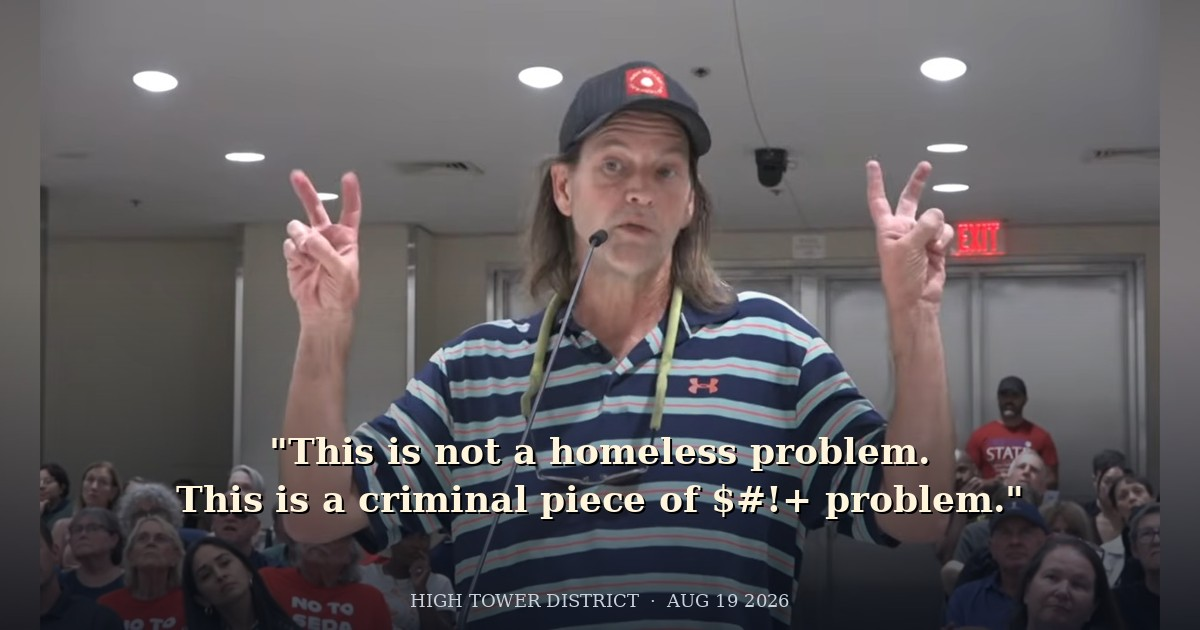
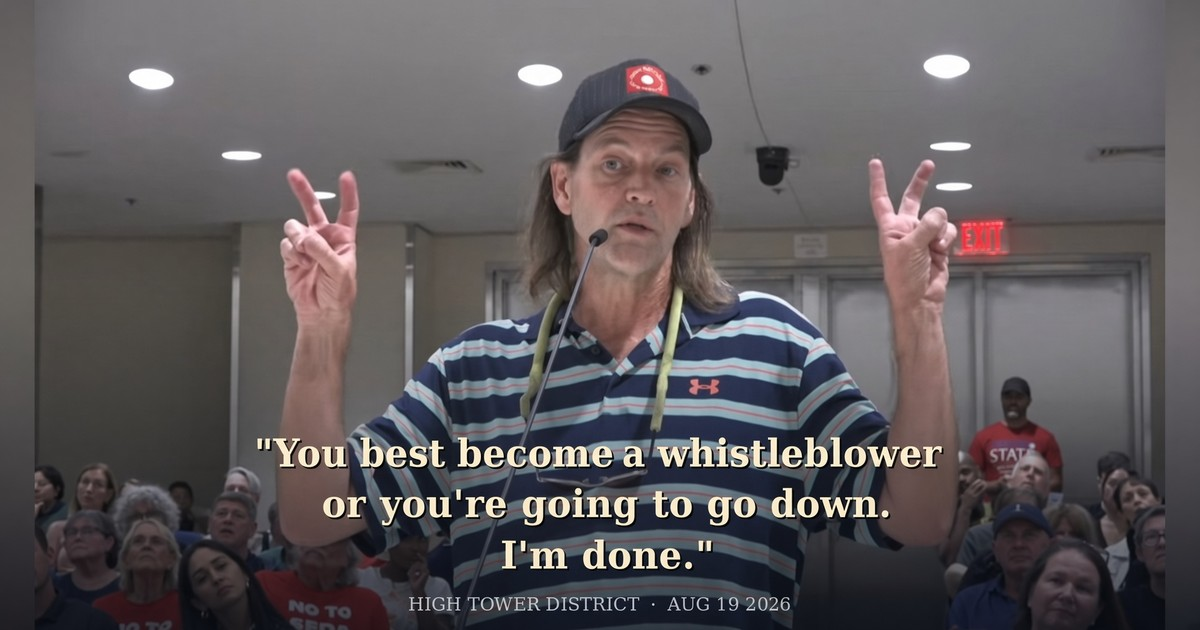
iSH

diff --git a/whistle-or-down/index.html b/whistle-or-down/index.html
@@ -4,21 +4,21 @@
   <meta charset="UTF-8">
   <meta name="viewport" content="width=device-width, initial-scale=1.0">
   <title>Whistleblow or Go Down — High Tower District</title>
-  <meta name="description" content="Anyone in politics: become a whistleblower or risk a federal penitentiary. Spare public safety. Official tape 1:49:12.">
+  <meta name="description" content="You best become a whistleblower or you're going to go down. I'm done. Official tape 1:49:12.">
   <link rel="canonical" href="https://aahigh.github.io/stories/whistle-or-down/">
   <meta property="og:type" content="article">
   <meta property="og:site_name" content="High Tower District Stories">
   <meta property="og:title" content="Whistleblow or Go Down">
-  <meta property="og:description" content="If you are in politics, blow the whistle. Or go down with the people who thought the lobby was safer than the record.">
+  <meta property="og:description" content="You best become a whistleblower or you're going to go down. I'm done.">
   <meta property="og:url" content="https://aahigh.github.io/stories/whistle-or-down/">
   <meta property="og:image" content="https://aahigh.github.io/stories/whistle-or-down/images/og.jpg">
   <meta property="og:image:secure_url" content="https://aahigh.github.io/stories/whistle-or-down/images/og.jpg">
   <meta property="og:image:width" content="1200">
   <meta property="og:image:height" content="630">
-  <meta property="og:image:alt" content="Aaron Hightower at the Planning Commission microphone. This is not a homeless problem.">
+  <meta property="og:image:alt" content="Aaron Hightower at the Planning Commission microphone with the quote: You best become a whistleblower or you're going to go down. I'm done.">
   <meta name="twitter:card" content="summary_large_image">
   <meta name="twitter:title" content="Whistleblow or Go Down">
-  <meta name="twitter:description" content="Anyone in politics: blow the whistle or risk the penitentiary. Spare public safety.">
+  <meta name="twitter:description" content="You best become a whistleblower or you're going to go down. I'm done.">
   <meta name="twitter:image" content="https://aahigh.github.io/stories/whistle-or-down/images/og.jpg">
   <script src="https://cdn.tailwindcss.com"></script>
   <link rel="preconnect" href="https://fonts.googleapis.com">
@@ -27,7 +27,7 @@
   <style>
     body { font-family: 'Inter', sans-serif; }
     h1, h2, h3 { font-family: 'Playfair Display', serif; }
-    .tape iframe { aspect-ratio: 16/9; width: 100%; min-height: 220px; }
+    .tape iframe { aspect-ratio: 16/9; min-height: 220px; }
   </style>
 </head>
 <body class="bg-slate-50 text-slate-800 antialiased">
@@ -44,10 +44,10 @@
       <div class="inline-block bg-red-700 text-white text-xs font-semibold px-3 py-1 rounded-full mb-4 tracking-wide">
         CIVIC NOTICE · AUG 19 2026
       </div>
-      <p class="text-xs uppercase tracking-widest text-slate-400 mb-3">To anyone in politics</p>
-      <h1 class="text-3xl sm:text-5xl font-bold leading-tight mb-4">Whistleblow or Go Down</h1>
+      <p class="text-xs uppercase tracking-widest text-slate-400 mb-3">District 3 · Dais · Whistle or down</p>
+      <h1 class="text-3xl sm:text-4xl font-bold leading-tight mb-4">Whistleblow or Go Down</h1>
       <p class="text-slate-300 text-xl leading-relaxed max-w-2xl">
-        Blow the whistle. Or take the ride to a federal penitentiary. Public safety does not survive a silent dais.
+        You best become a whistleblower or you're going to go down. I'm done.
       </p>
     </div>
   </header>
@@ -55,85 +55,143 @@
   <main class="max-w-3xl mx-auto px-4 py-10 space-y-12">
 
     <figure>
-      <img src="images/aaron-dais.jpg" alt="Aaron Hightower at the Planning Commission microphone" class="w-full rounded-lg shadow-md">
-      <figcaption class="mt-2 text-sm text-slate-500 text-center">Planning Commission, August 19, 2026. Two minutes. The warning is the story.</figcaption>
+      <img src="images/aaron-dais.jpg" alt="Aaron Hightower speaking at the Planning Commission with both hands raised" class="w-full rounded-lg shadow-md">
+      <figcaption class="mt-2 text-sm text-slate-500 text-center">Planning Commission public comment, August 19, 2026. The closing line lives on the preview card.</figcaption>
     </figure>
 
     <section class="space-y-4 text-[17px] leading-relaxed">
-      <p>This is not a homeless problem. That word is a loaded label. It rinses the crime off the pile.</p>
-      <p>This is a criminal piece of $#!+ problem. Unused law. Federal money treated like a community mascot. People in office who will not say the statute out loud.</p>
-      <p>If you hold a seat, staff a seat, bid a contract, or sit in a lobby and call yourself a journalist, you already know enough to pick a side. Become a whistleblower. Or go down with the people who thought silence was a career plan.</p>
+      <p>The loaded label is <span class="font-semibold">homeless</span>.</p>
+      <p>It rinses the verb off the noun. Dumping in a canal becomes a housing status. A break-in becomes a condition. Grift on child-serving money becomes compassion. The statute stays on the books. The microphone pretends the statute is rude.</p>
+      <p>I did not take that microphone on August 19 to audition for a seat. I took it because unused law is a signal, and because I will not put my name on a ticket next to people I treat as predators of general public safety.</p>
+      <p>The outside is the point. Expose them from the sidewalk and the official tape. Do not warranty them with a ballot line.</p>
     </section>
 
     <section>
-      <h2 class="text-2xl font-bold text-slate-900 mb-4 border-b border-red-800 pb-2">The tape</h2>
+      <h2 class="text-2xl font-bold text-slate-900 mb-4 border-b border-red-800 pb-2">Tape 4</h2>
       <figure class="bg-white border border-slate-200 rounded-2xl p-5">
-        <p class="text-xs uppercase tracking-wide text-blue-800">Official stream · one clip</p>
-        <p class="text-sm font-semibold text-slate-900 mt-1">Aaron Hightower · Fresno Planning Commission · August 19, 2026</p>
+        <p class="text-xs uppercase tracking-wide text-blue-800">Tape 4 · Closing line</p>
+        <p class="text-sm font-semibold text-slate-900 mt-1">Aaron Hightower · Planning Commission · August 19, 2026</p>
         <p class="text-sm text-slate-800 mt-2"><span class="font-semibold">Start:</span> 1:49:12 · <span class="font-semibold">Listen:</span> about 2 minutes</p>
-        <p class="text-sm text-slate-600 mt-2">Homelessness as crime and grift. Unused canal-litter law. Broken windows. Whistleblow or go down.</p>
+        <p class="text-sm text-slate-600 mt-2">Listen for the close: you best become a whistleblower or you're going to go down. I'm done.</p>
         <div class="tape w-full overflow-hidden rounded-xl border border-slate-200 bg-black mt-4">
-          <iframe class="w-full" src="https://www.youtube.com/embed/MCOhw7L1KnI?start=6552" title="Planning Commission August 19 2026 at 1:49:12" allow="accelerometer; autoplay; clipboard-write; encrypted-media; gyroscope; picture-in-picture" allowfullscreen></iframe>
+          <iframe class="w-full" src="https://www.youtube.com/embed/MCOhw7L1KnI?start=6552" title="Planning Commission August 19 2026 Tape 4" allow="accelerometer; autoplay; clipboard-write; encrypted-media; gyroscope; picture-in-picture" allowfullscreen></iframe>
         </div>
-        <p class="text-xs text-slate-500 mt-2">
-          If the player skips, open
-          <a class="text-blue-800 underline" href="https://www.youtube.com/watch?v=MCOhw7L1KnI&amp;t=6552s">youtube.com/watch?v=MCOhw7L1KnI&amp;t=6552s</a>
-        </p>
+        <figcaption class="text-xs text-slate-500 mt-2">Official City of Fresno stream. youtube.com/watch?v=MCOhw7L1KnI&amp;t=6552s</figcaption>
       </figure>
     </section>
 
     <figure>
-      <img src="images/13-city-hall-sign.jpg" alt="Fresno City Hall sign" class="w-full rounded-lg shadow-md">
-      <figcaption class="mt-2 text-sm text-slate-500 text-center">The building. The choice is inside it.</figcaption>
+      <img src="images/city-hall.jpg" alt="Fresno City Hall granite sign" class="w-full rounded-lg shadow-md">
+      <figcaption class="mt-2 text-sm text-slate-500 text-center">The building. The record is on the tape, not the slogan on the lawn.</figcaption>
     </figure>
 
     <section class="space-y-4 text-[17px] leading-relaxed">
-      <h2 class="text-2xl font-bold text-slate-900 border-b border-red-800 pb-2">Why the penitentiary is not a metaphor</h2>
-      <p>Minnesota already ran the experiment. Child-nutrition money. Fake sites. Federal prison. Aimee Bock, 500 months. People walked back from overseas to face the docket.</p>
-      <p>The same class of money moves here. Child-serving. Housing. Arts. Emergency. The invoices look local. The source is often federal. When the audit arrives, "I was just doing services" is not a defense. "I did not want to hurt my friends" is not a defense. "We used a softer noun" is not a defense.</p>
-      <p>California still has Penal Code 374.7. Dump in a canal and it is a misdemeanor with a mandatory fine. The laterals behind this district are not mysterious. Unused law is a signal. Predators read signals.</p>
-      <p>California still has Penal Code 311.11. A registrant still walked into a Fresno council race because the state left the door open. That is not compassion. That is a captured gate.</p>
+      <h2 class="text-2xl font-bold text-slate-900 border-b border-red-800 pb-2">What the unused law actually is</h2>
+      <p>California Penal Code 374.7 is not a vibe. Litter or dump waste into a canal, slough, river, or within 150 feet of the high-water mark and it is a misdemeanor. First conviction: mandatory fine. Repeat it and the fine climbs. A court can add litter pickup.</p>
+      <p>The laterals behind this district are not mysterious. What is mysterious is a government that can see the trash and still speak as if no written law exists.</p>
+      <p>Unused law is not mercy. Unused law is a signal. Predators read signals. So do the people who turn services into a billing machine.</p>
     </section>
 
     <figure>
-      <img src="images/03-graffiti-full.jpg" alt="PC 374.7 painted on the fence at 721 E La Sierra" class="w-full rounded-lg shadow-md">
-      <figcaption class="mt-2 text-sm text-slate-500 text-center">The statute on the fence. Miss De Meaner. $1,000 fine.</figcaption>
+      <img src="images/pc3747.jpg" alt="Pink lettering on the fence at 721 E La Sierra stating PC 374.7" class="w-full rounded-lg shadow-md">
+      <figcaption class="mt-2 text-sm text-slate-500 text-center">The permanent record at 721 E La Sierra. PC 374.7. Miss De Meaner. $1,000 fine.</figcaption>
     </figure>
 
     <figure>
-      <img src="images/04-canal-trash.jpg" alt="Trash in the canal" class="w-full rounded-lg shadow-md">
-      <figcaption class="mt-2 text-sm text-slate-500 text-center">Call it homeless if you need the soft noun. The pile is still a pile.</figcaption>
+      <img src="images/canal-trash.jpg" alt="Trash in the canal behind the property" class="w-full rounded-lg shadow-md">
+      <figcaption class="mt-2 text-sm text-slate-500 text-center">The canal. Call it homeless if you need the soft noun. The pile is still a pile.</figcaption>
+    </figure>
+
+    <div class="grid grid-cols-1 sm:grid-cols-2 gap-4">
+      <figure>
+        <img src="images/fence-pack.jpg" alt="Cigarette pack and foil on the fence" class="w-full rounded-lg shadow-md">
+        <figcaption class="mt-2 text-sm text-slate-500 text-center">Morning evidence.</figcaption>
+      </figure>
+      <figure>
+        <img src="images/bridge.jpg" alt="Bridge over the canal" class="w-full rounded-lg shadow-md">
+        <figcaption class="mt-2 text-sm text-slate-500 text-center">The underpass is never empty.</figcaption>
+      </figure>
+    </div>
+
+    <section class="space-y-4 text-[17px] leading-relaxed">
+      <h2 class="text-2xl font-bold text-slate-900 border-b border-red-800 pb-2">Wiener killed the bill that would have closed the 311.11 door</h2>
+      <p>Rene Campos ran for District 7 after a 2018 conviction tied to possessing child sexual abuse material. That is Penal Code 311.11 territory. The County Clerk said state law still let him run. In March 2026 the Fresno City Council voted 7-0 to support a state bill barring registered sex offenders from holding office after one of them sat in chambers while schoolchildren walked the room.</p>
+      <p>Assemblymember Esmeralda Soria carried that bill. AB 2753. It would have barred anyone ever required to register as a sex offender from running for or holding state or local office. The Assembly passed it. Then it hit the Senate Elections and Constitutional Amendments Committee on June 30, 2026.</p>
+      <p>The chair of that committee is Sen. Scott Wiener, D-San Francisco. He demanded the ban shrink to Tier 3 lifetime registrants only. Soria refused. Wiener voted no and told the committee to vote no. Democrats Ben Allen and Tom Umberg sat it out. The count was 2-1-2. The bill died. Campos celebrated and called it a First Amendment win.</p>
+      <p>Minutes later the same committee advanced a narrower bill, AB 2691. Critics documented carve-outs that pulled some sex crimes against minors out of the definition of sexual assault. Wiener called the criticism political cynicism. The public record is simpler than the spin. The Campos-inspired ban is dead. The loophole that let a 311.11 registrant file for Fresno City Council is still the law of California.</p>
+      <p>Wiener's longer paper trail is not rumor. In 2019-2020 he authored SB 145, the bill that changed how close-in-age oral and anal conduct with a minor is treated on the registry compared with vaginal conduct. Opponents treated the bill as a scandal. Wiener treated the opponents as a QAnon mob. Both things can be true at once: the threats against him were real, and the policy still moved the line. In 2020 Gov. Newsom signed it. That is the documented dirt that matters here. A San Francisco senator chairs the gate. A Fresno 311.11 case walks up to the gate. The gate stays open.</p>
+    </section>
+
+    <section class="space-y-4 text-[17px] leading-relaxed">
+      <h2 class="text-2xl font-bold text-slate-900 border-b border-red-800 pb-2">The swap that changes nothing operational</h2>
+      <p>Watch the chairs, not the flyers.</p>
+      <p>Keshia Thomas is leaving Fresno Unified Trustee Area 1. She is not running for re-election to the school board. She is on the November ballot for City Council District 3.</p>
+      <p>Miguel Arias is leaving City Council District 3. Term limits. He is on the November ballot for Fresno Unified Trustee Area 1.</p>
+      <p>That is a swap. School board to council. Council to school board. Same two offices. Same two last names circulating through the same child-serving and city-serving money. If both win, the system does not get a new operating system. It gets a seat rotation.</p>
+      <p>City Council and school board are nonpartisan offices. Arias still talks as if his constituents are a caucus of extreme liberal Democrats. Loaded labels do that work. Unhoused. Murder, when the subject is an ICE agent in Minnesota. Homeless, when the subject is a canal. The labels recruit an emotional majority that is not on the ballot line. Appeal to emotion is the fallacy. The product is more government service as moral theater. The bill still lands on the same federal and state accounts that Minnesota already proved can be stolen in the open.</p>
+      <p>Opinion, labeled as opinion: I cannot prove in a courtroom tonight that Thomas and Arias personally pocketed a federal dollar. I can say they are part of a systemic failure. A system commandeered by a far-liberal left that treats public safety as the enemy of compassion, then bills compassion back to the same public. That is the grift. Destruction of safety that ordinary people cannot name because the noun has been washed. Homeless. Unhoused. Neighbors. Never the statute. Never the invoice.</p>
+    </section>
+
+    <figure>
+      <img src="images/chambers.jpg" alt="Fresno City Council chambers" class="w-full rounded-lg shadow-md">
+      <figcaption class="mt-2 text-sm text-slate-500 text-center">Chambers. Nonpartisan on the door. Partisan in the mouth.</figcaption>
     </figure>
 
     <section class="space-y-4 text-[17px] leading-relaxed">
-      <h2 class="text-2xl font-bold text-slate-900 border-b border-red-800 pb-2">The employment offer</h2>
-      <p>This message is for anybody involved in politics in this city, this county, this state.</p>
-      <p>If you have seen the billing, the unused statute, the loaded label, the kid-money, the lobby act: document it. Take it to a prosecutor, an inspector general, a federal agent, a paper that will print the invoice. Do it while you can still walk in as a witness.</p>
-      <p>If you wait until the indictment list is public, you are not a reformer. You are a passenger.</p>
-      <p>I dropped a District 3 ticket for this reason. I will not warranty a cracked part with my name. The outside is the job. Expose them. Spare the public. Spare yourself the ride.</p>
+      <h2 class="text-2xl font-bold text-slate-900 border-b border-red-800 pb-2">The racism charge that did not survive the son</h2>
+      <p>Keshia Thomas. Fresno Unified trustee. District 3 runoff against Joaquin Arambula.</p>
+      <p>May 17, 2022, GV Wire Unfiltered: she said her middle son went to football practice where he has Arax calling him the racial epithet, then left Bullard for Edison.</p>
+      <p>Don Arax denied it and sued her and the district for defamation. Public reporting put the combined legal spend near $370,000.</p>
+      <p>July 27, 2026: her son, Albert Alford Jr., filed a sworn declaration that the 2013 incident wasn't true and that he never told his mother Arax used the slur.</p>
+      <p>August 17: Fresno Teachers Association called for her resignation. She issued a formal apology. She refused to resign. Trial was set for December 7, 2026. Mediation followed.</p>
+      <p>A mother can be lied to. A public official still owes due diligence before she uses the most destructive racial charge in American life against a named employee on a recorded show. If the first speaker is a child, the adult who carries the charge into the public square owns the verification.</p>
+      <p>That is how fraud survives. Not only with fake invoices. With a moral tripwire that detonates inspection. Homeless does the same job on a canal. Racism does the same job on a name.</p>
+    </section>
+
+    <section class="space-y-4 text-[17px] leading-relaxed">
+      <h2 class="text-2xl font-bold text-slate-900 border-b border-red-800 pb-2">The cabal is not a cartoon. It is under-the-table communication plus a captured noun.</h2>
+      <p>A commandeered government does not need a smoke-filled room with a logo. It needs a shared vocabulary, a shared donor class, and a shared refusal to enforce written law. People talk. Staff talk. Nonprofits talk. The loaded label travels faster than the statute. Public safety gets treated as the obstacle. The service contract becomes the prize.</p>
+      <p>I am saying that from the outside. That is the point of dropping the ticket. Association is a warranty. I will not sign it.</p>
+    </section>
+
+    <section class="space-y-4 text-[17px] leading-relaxed">
+      <h2 class="text-2xl font-bold text-slate-900 border-b border-red-800 pb-2">The Facebook parallel, for the steel-man</h2>
+      <p>Meta walked into a teen-harm trial talking like the number might be over a trillion dollars. Some states had framed penalties that high. $1.4 trillion showed up in the company's own warning. Then the trial was a few days old and the number collapsed into a settlement in the mid-teens of billions. Wired put the cap at $16.7 billion. Reuters put the package near $18 billion. The liability story shrank by two orders of magnitude the moment the testimony calendar got real.</p>
+      <p>That is how captured systems talk about harm. Announce an astronomical moral debt. Settle for a manageable check. Keep the machine.</p>
+      <p>Zuckerberg already has a paper trail of writing large private checks into the public election machinery. In 2020 he and Priscilla Chan put about $400 million through groups such as the Center for Tech and Civic Life to fund local election offices. Supporters called it pandemic rescue. Critics called it Zuckbucks and said the money bent turnout operations toward favored jurisdictions. Either way, a private fortune was allowed to sit inside the official count. When the same fortune later faces a child-safety trial, the public is told the true number was never the trillion. It was always going to be the check they could write.</p>
+      <p>Local government runs a smaller version of the same play. Announce a humanitarian emergency. Load the noun. Route the federal dollar. If anyone asks about PC 374.7 or PC 311.11, call the question cruel. If anyone asks about a racism charge that the son later recanted under oath, call the question racist. The pattern is the steel-man. Not a courtroom verdict on two local names. A method.</p>
     </section>
 
     <figure>
-      <img src="images/05-721-home.jpg" alt="721 E La Sierra" class="w-full rounded-lg shadow-md">
-      <figcaption class="mt-2 text-sm text-slate-500 text-center">721 E La Sierra. Home base. The record stays here.</figcaption>
+      <img src="images/home.jpg" alt="721 E La Sierra" class="w-full rounded-lg shadow-md">
+      <figcaption class="mt-2 text-sm text-slate-500 text-center">Home base. 721 E La Sierra. The porch, the chair, the record.</figcaption>
     </figure>
 
-    <section class="bg-red-800 text-white rounded-2xl p-8 text-center space-y-3">
-      <p class="text-sm uppercase tracking-widest text-red-100">The line</p>
-      <p class="text-2xl sm:text-3xl font-bold leading-tight">Whistleblow. Or go down.</p>
-      <p class="text-red-100">Public safety is the protected class. Not the brand. Not the noun. Not the lobby.</p>
+    <section class="space-y-4 text-[17px] leading-relaxed">
+      <h2 class="text-2xl font-bold text-slate-900 border-b border-red-800 pb-2">The position</h2>
+      <p>Public safety is not a vibe. Child-serving money is not a community mascot. Unused statutes are not mercy. Homeless is not a get-out-of-the-Penal-Code card.</p>
+      <p>Minnesota already ran the experiment on child-nutrition theft. Federal prison is what impunity looks like after the story dies. Feeding Our Future. Bock, 500 months. An organizer walked back from Mogadishu.</p>
+      <p>Opinion again, labeled: some people in this local service machine are going to a federal penitentiary if the same audit culture that finally hit Minnesota ever hits the Valley. I cannot name the docket today. I can name the method.</p>
+      <p>I will not share a ballot with people I regard as predators of general public safety. I will name them from the outside.</p>
+      <p>Whistleblow. Or go down with the people who thought the lobby was safer than the record.</p>
+    </section>
+
+    <section class="bg-slate-900 text-white rounded-2xl p-8 text-center space-y-2">
+      <p class="text-sm uppercase tracking-widest text-slate-400">High Tower District</p>
+      <p class="text-lg font-semibold">721 E La Sierra · Fresno · 93728</p>
+      <p class="text-slate-300">Document. Display. Enforce.</p>
     </section>
 
     <section class="text-xs text-slate-500 space-y-2 border-t border-slate-200 pt-6">
       <p class="uppercase tracking-wide text-slate-400">Record</p>
-      <p>City of Fresno Planning Commission, Aug. 19, 2026, official YouTube MCOhw7L1KnI at 1:49:12 (6552 seconds). Cal. Penal Code 374.7 and 311.11. U.S. Attorney, District of Minnesota, Feeding Our Future 2026, including Bock 500 months. Canal and porch photographs from the High Tower District daily record. Dais still from the official meeting video.</p>
+      <p>City of Fresno Planning Commission, Aug. 19, 2026, official YouTube, 1:49:12. Cal. Penal Code 374.7 and 311.11. AB 2753 (Soria) failed Senate Elections June 30, 2026, 2-1-2, Wiener no. AB 2691 advanced the same day. SB 145 (Wiener), signed 2020. Ballotpedia: Thomas not seeking FUSD re-election, running Council D3. Arias not seeking Council re-election, running FUSD Area 1. Fresno Bee / FTA / SJV Sun on Thomas, Alford Jr., apology, trial, mediation. ABC30 and LAT on Campos and the 7-0 chambers vote. Wired / Reuters / LAT on Meta teen-harm settlement, mid-teens of billions after trillion-scale penalty talk. WashPost / AP on Chan-Zuckerberg 2020 election-office grants. Canal and porch photographs from the High Tower District daily record. Dais still from the official meeting video.</p>
     </section>
   </main>
 
   <footer class="border-t border-slate-200 mt-8">
     <div class="max-w-3xl mx-auto px-4 py-8 text-center text-sm text-slate-500">
       <p>High Tower District Stories · Independent civic record</p>
-      <p class="mt-1">721 E La Sierra · Fresno · 93728</p>
+      <p class="mt-1">Not a campaign committee filing.</p>
     </div>
   </footer>
 </body>
